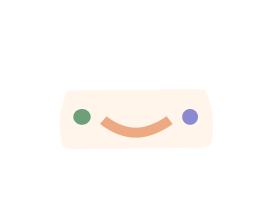
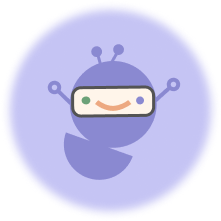
Added HomePage

diff --git a/lib/pages/home_page.dart b/lib/pages/home_page.dart
@@ -1,0 +1,116 @@
+import 'package:diary_chat/screens/screens.dart';
+import 'package:diary_chat/theme.dart';
+import 'package:flutter/material.dart';
+import 'dart:math' as math;
+
+import 'package:flutter_svg/flutter_svg.dart';
+import 'package:google_fonts/google_fonts.dart';
+
+class HomePage extends StatefulWidget {
+  @override
+  State<HomePage> createState() => _HomePageState();
+}
+
+class _HomePageState extends State<HomePage> {
+  @override
+  Widget build(BuildContext context) {
+    return Container(
+        decoration: BoxDecoration(
+          color: Color.fromRGBO(255, 255, 255, 1),
+        ),
+        child: Stack(children: <Widget>[
+          Positioned(
+              top: 0,
+              left: 0,
+              child: Transform.scale(
+                scaleY: -1,
+                child: SvgPicture.asset('assets/icons/vector12.svg',
+                    semanticsLabel: 'vector12'),
+              )),
+          Positioned(
+              top: 120,
+              left: 97,
+              child: Material(
+                color: AppColors.cardLight.withOpacity(0),
+                child: Text(
+                  'Hello,\n I am Manito.',
+                  textAlign: TextAlign.center,
+                  style: GoogleFonts.poppins(
+                    color: AppColors.text,
+                    backgroundColor: AppColors.cardLight.withOpacity(0),
+                    fontSize: 32,
+                  ),
+                ),
+              )),
+          Center(
+            child: Container(
+                decoration: BoxDecoration(
+              image: DecorationImage(
+                  alignment: Alignment(0, -0.2),
+                  image: AssetImage('assets/images/Manito.png')),
+            )),
+          ),
+          Center(
+              child: Material(
+            child: Text(
+              'What can I interest you in\n today ? ',
+              textAlign: TextAlign.center,
+              style: GoogleFonts.poppins(
+                  color: AppColors.text,
+                  fontSize: 24,
+                  fontWeight: FontWeight.w500,
+                  height: 0.8333333333333334),
+            ),
+          )),
+          Align(
+            alignment: Alignment.bottomCenter,
+            heightFactor: 9.5,
+            child: Container(
+              width: 192,
+              height: 63,
+              child: ElevatedButton(
+                  onPressed: () {
+                    Navigator.push(context,
+                        MaterialPageRoute(builder: (context) => ChatScreen()));
+                  },
+                  child: Text(
+                    'Let\'s talk',
+                    style: GoogleFonts.poppins(
+                        fontSize: 22, fontWeight: FontWeight.w500),
+                  )),
+            ),
+          ),
+          Positioned(
+              top: 680,
+              left: 68,
+              child: Material(
+                child: Text(
+                  'Or say “Hey, Manito!”',
+                  textAlign: TextAlign.center,
+                  style: GoogleFonts.poppins(
+                      color: AppColors.text,
+                      fontSize: 24,
+                      fontWeight: FontWeight.w500,
+                      height: 0.8333333333333334),
+                ),
+              )),
+          Positioned(
+              top: 722,
+              left: 162,
+              child: Container(
+                  width: 65,
+                  height: 65,
+                  decoration: BoxDecoration(
+                    boxShadow: [
+                      BoxShadow(
+                          color: Color.fromRGBO(0, 0, 0, 0.25),
+                          offset: Offset(0, 4),
+                          blurRadius: 4)
+                    ],
+                    color: Color.fromRGBO(138, 136, 209, 1),
+                    borderRadius: BorderRadius.all(Radius.elliptical(65, 65)),
+                  ))),
+          Positioned(top: 736, left: 182, child: Icon(Icons.mic)),
+        ]));
+  }
+}

diff --git a/lib/screens/chat_screen.dart b/lib/screens/chat_screen.dart
@@ -4,24 +4,19 @@ import 'package:diary_chat/widgets/widgets.dart';
 import 'package:firebase_database/firebase_database.dart';
 import 'package:flutter/cupertino.dart';
 import 'package:flutter/material.dart';
-import 'package:flutter_svg/flutter_svg.dart';
 import 'package:google_fonts/google_fonts.dart';
 import 'package:jiffy/jiffy.dart';
 import 'package:stream_chat_flutter_core/stream_chat_flutter_core.dart';
 
 class ChatScreen extends StatefulWidget {
   static Route route(MessageData data) => MaterialPageRoute(
-        builder: (context) => ChatScreen(
-          messageData: data,
-        ),
+        builder: (context) => ChatScreen(),
       );
 
   const ChatScreen({
     Key? key,
-    required this.messageData,
   }) : super(key: key);
 
-  final MessageData messageData;
   // final FirebaseApp app;
 
   @override
@@ -239,9 +234,9 @@ class _MessageList extends StatelessWidget {
           if (index < messages.length) {
             final message = messages[index];
             // if (message.user?.id == context.currentUser?.id) {
-            return _MessageOwnTile(message: message);
+            // return _MessageOwnTile(message: message);
             // } else {
-            //   return _MessageTile(message: message);
+            return _MessageTile(message: message);
             // }
           } else {
             return const SizedBox.shrink();
@@ -279,8 +274,6 @@ class _MessageTile extends StatelessWidget {
                     height: 59,
                     child: Stack(children: <Widget>[
                       Positioned(
-                          top: 0,
-                          left: 0,
                           child: Container(
                               width: 59,
                               height: 59,
@@ -298,13 +291,13 @@ class _MessageTile extends StatelessWidget {
                               decoration: BoxDecoration(
                                 image: DecorationImage(
                                     image:
-                                        AssetImage('assets/images/Manito.png'),
+                                        AssetImage('assets/images/Manito_small.png'),
                                     fit: BoxFit.fitWidth),
                               ))),
                     ])),
                 Container(
                   decoration: BoxDecoration(
-                    color: Theme.of(context).cardColor,
+                    color: AppColors.textFaded,
                     borderRadius: const BorderRadius.only(
                       topLeft: Radius.circular(_borderRadius),
                       topRight: Radius.circular(_borderRadius),

diff --git a/lib/pages/welcome_page.dart b/lib/pages/welcome_page.dart
@@ -1,4 +1,5 @@
-import 'package:diary_chat/screens/screens.dart';
+import 'package:diary_chat/pages/pages.dart';
+import 'package:diary_chat/screens/chats_screen.dart';
 import 'package:diary_chat/theme.dart';
 import 'package:flutter/material.dart';
 import 'dart:math' as math;
@@ -28,7 +29,7 @@ class _WelcomePageState extends State<WelcomePage> {
   _navigateToHome() async {
     await Future.delayed(Duration(milliseconds: 1700), () {});
     Navigator.pushReplacement(
-        context, MaterialPageRoute(builder: (context) => ChatsScreen()));
+        context, MaterialPageRoute(builder: (context) => HomePage()));
   }
 
   @override
@@ -115,35 +116,6 @@ class _WelcomePageState extends State<WelcomePage> {
                 width: width,
                 child: SvgPicture.asset('assets/icons/vector9.svg',
                     semanticsLabel: 'vector9')),
-            // Positioned(
-            //     top: 19,
-            //     left: 288,
-            //     child: SvgPicture.asset('assets/icons/test.svg',
-            //         semanticsLabel: 'vector9')),
-            // Positioned(
-            //     top: 18,
-            //     left: 315,
-            //     child: SvgPicture.asset('assets/icons/test.svg',
-            //         semanticsLabel: 'vector9')),
-            // Positioned(
-            //     top: 18,
-            //     left: 339,
-            //     child: SvgPicture.asset('assets/icons/test.svg',
-            //         semanticsLabel: 'vector9')),
-            Positioned(
-                top: 18,
-                left: 43,
-                child: Text(
-                  '11:53',
-                  textAlign: TextAlign.center,
-                  style: TextStyle(
-                      color: Color.fromRGBO(0, 0, 0, 1),
-                      fontFamily: 'Poppins',
-                      fontSize: 17,
-                      letterSpacing: -0.5,
-                      fontWeight: FontWeight.normal,
-                      height: 1),
-                )),
           ])),
     );
   }

diff --git a/lib/pages/messages_page.dart b/lib/pages/messages_page.dart
@@ -97,7 +97,7 @@ class _MessageTile extends StatelessWidget {
                         overflow: TextOverflow.ellipsis,
                         style: const TextStyle(
                           fontSize: 12,
-                          color: AppColors.textFaded,
+                          color: AppColors.textDark,
                         ),
                       ),
                     ),
@@ -119,7 +119,7 @@ class _MessageTile extends StatelessWidget {
                         fontSize: 11,
                         letterSpacing: -0.2,
                         fontWeight: FontWeight.w600,
-                        color: AppColors.textFaded,
+                        color: AppColors.textDark,
                       ),
                     ),
                     const SizedBox(
@@ -174,7 +174,7 @@ class _Stories extends StatelessWidget {
                   style: TextStyle(
                     fontWeight: FontWeight.w900,
                     fontSize: 15,
-                    color: AppColors.textFaded,
+                    color: AppColors.textDark,
                   ),
                 ),
               ),

diff --git a/lib/theme.dart b/lib/theme.dart
@@ -5,9 +5,10 @@ abstract class AppColors {
   static const primary = Color(0xFF8A89D1);
   static const secondary = Color(0xFFB7B6F1);
   static const accent = Color(0xFFD6755B);
+  static const text = Color(0xFF535353);
   static const textDark = Color(0xFF000000);
   static const textLight = Color(0xFFF5F5F5);
-  static const textFaded = Color(0xFF9899A5);
+  static const textFaded = Color(0xFFEEEEEE);
   static const iconLight = Color(0xFFB1B4C0);
   static const iconDark = Color(0xFFB1B3C1);
   static const textHighlight = primary;

diff --git a/lib/pages/pages.dart b/lib/pages/pages.dart
@@ -3,3 +3,4 @@ export 'contacts_page.dart';
 export 'messages_page.dart';
 export 'notifications_page.dart';
 export 'welcome_page.dart';
+export 'home_page.dart';

diff --git a/main.dart b/main.dart
@@ -1,7 +1,5 @@
 import 'package:flutter/material.dart';
 
-import 'main.dart';
-
 void main() {
   runApp(MyApp());
 }
